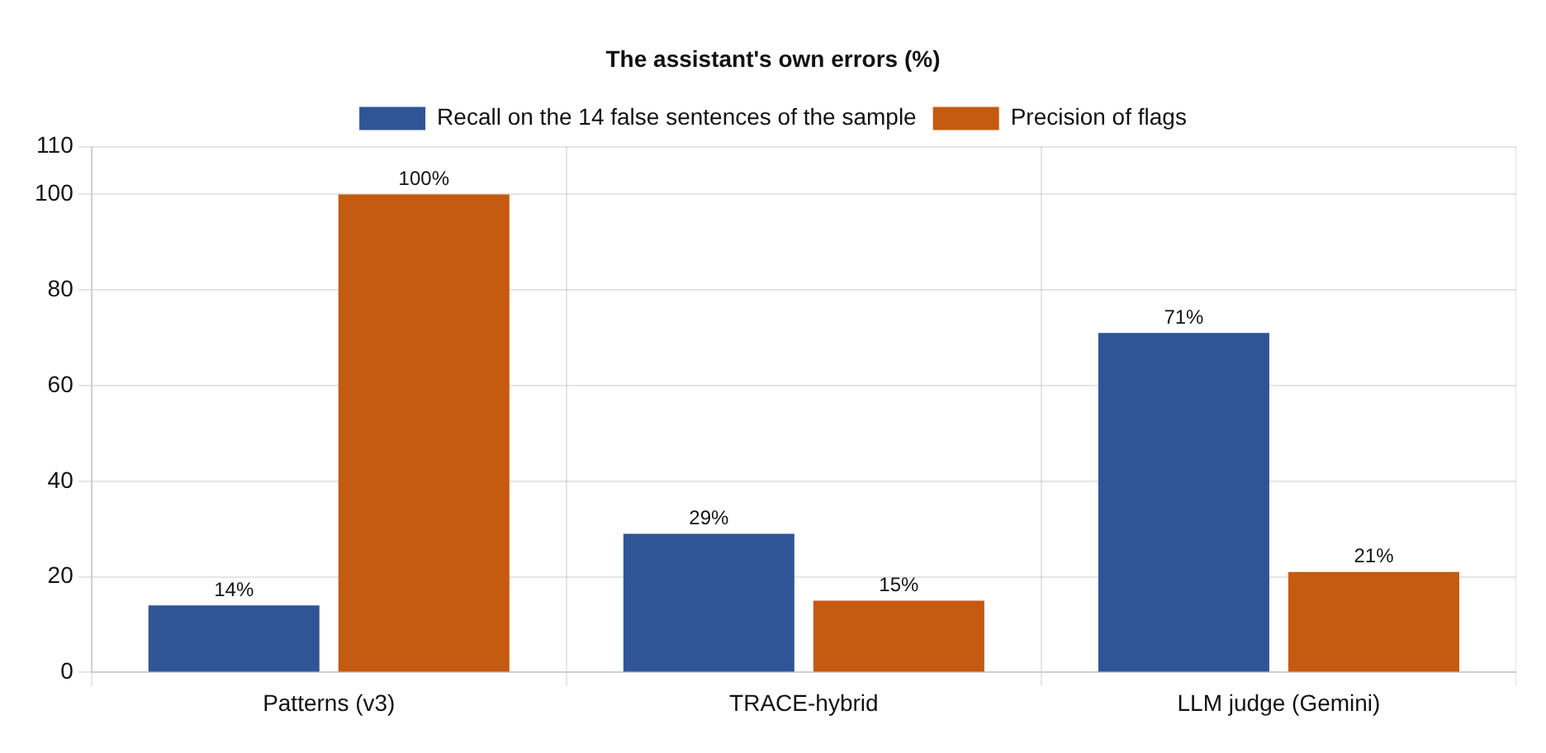
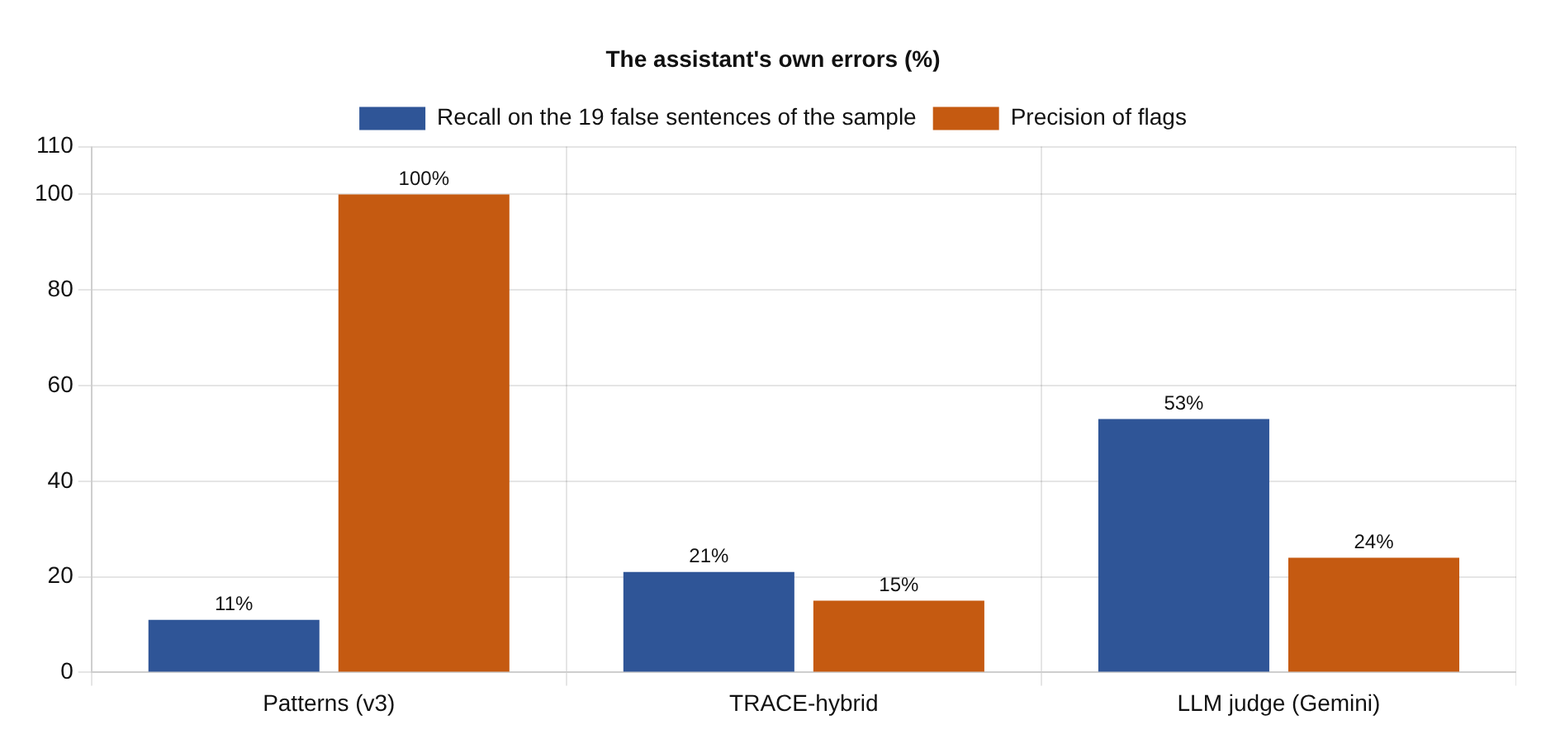
Journal and report: natural-error results with the corrected labels (19 false sentences, TRACE 4 of 19, judge 10 of 19), with the correction disclosed

diff --git a/Research/report/src/ch6.js b/Research/report/src/ch6.js
@@ -147,16 +147,17 @@ module.exports = [
   { table: { caption: 'Random sample of 300 sentences from the stored answers', widths: [2.6, 1, 0.8, 0.8, 1, 0.9, 1.9],
     head: ['Answers', 'Sentences', 'True', 'False', 'No claim', 'Unsure', 'False among checkable'],
     rows: [
-      ['All', '300', '247', '14', '34', '5', '14/261 (5.4%)'],
-      ['With knowledge base', '222', '204', '3', '13', '2', '3/207 (1.4%)'],
-      ['Without knowledge base', '78', '43', '11', '21', '3', '11/54 (20.4%)'],
-      ['Gemini runs', '245', '204', '14', '23', '4', '14/218 (6.4%)'],
+      ['All', '300', '242', '19', '34', '5', '19/261 (7.3%)'],
+      ['With knowledge base', '222', '202', '5', '13', '2', '5/207 (2.4%)'],
+      ['Without knowledge base', '78', '40', '14', '21', '3', '14/54 (25.9%)'],
+      ['Gemini runs', '245', '199', '19', '23', '4', '19/218 (8.7%)'],
       ['Gemma run', '55', '43', '0', '11', '1', '0/43 (0%)'],
     ] } },
-  { p: 'Of the checkable sentences, 5.4% were false. The knowledge base made the largest difference: 1.4% of checkable sentences were false with it, against 20.4% without it. All eleven false sentences without the knowledge base state a company rule or definition wrongly (for example, the threshold for rising demand as 20% instead of 15%).' },
-  { p: 'To measure detection, each method was run on the 211 answers that contain a sampled sentence (all 590 would have exceeded the free API quota), and every flagged sentence was labelled too, 435 sentences in all.' },
+  { p: 'Of the checkable sentences, 7.3% were false. The knowledge base made the largest difference: 2.4% of checkable sentences were false with it, against 25.9% without it. Eleven of the fourteen false sentences without the knowledge base state a company rule or definition wrongly (for example, the threshold for rising demand as 20% instead of 15%). Five sentences, two with the knowledge base and three without, describe overdue units as part of the units on order ("720 overdue inbound units out of 1,830 inbound units"), although the system counts them separately.' },
+  { p: '**A correction to the labels.** These five sentences were first labelled true. While labelling the sentences MiniCheck flagged, after all methods had run, the same pattern turned up labelled false elsewhere, so every label was checked against one rule taken from the code (units on order are ordered, not delivered and not overdue). Nine labels changed from true to false, five of them in the sample, and none the other way; the changes are logged in `label-corrections.jsonl`. With the original labels the sample had 14 false sentences (5.4%; 1.4% with and 20.4% without the knowledge base), and TRACE found 4 of them and the judge 10. Because the correction was prompted by MiniCheck\'s flags, it favours MiniCheck, so both versions are reported.' },
+  { p: 'To measure detection, each method was run on the 211 answers that contain a sampled sentence (all 590 would have exceeded the free API quota), and every flagged sentence was labelled too, 649 sentences in all.' },
   { fig: { file: 'chart-natural.png', caption: 'Natural errors: recall on the sample and precision of flags', width: 5.6 } },
-  { p: 'Natural errors turned out to be a different problem. TRACE-hybrid found 4 of the 14 false sentences (29%), against 10 (71%) for the LLM judge. Of TRACE\'s ten misses, eight are definitions its language cannot express (what a sales-order status means, whether reorder level and reorder point are the same figure, whether unserved demand is back-ordered, whether the data are simulated), and two state a rule TRACE can check that the extractor did not record. The judge, given the knowledge base\'s passages as evidence, could compare such definitions with them directly. Precision was low for both: 12 of 78 TRACE flags (15%) and 24 of 117 judge flags (21%) were real errors. 50 of TRACE\'s 66 wrong flags came from just two answers that listed 26 weekly forecasts, each of which the extractor recorded as the *average* forecast; without those answers TRACE\'s precision is 43%.' },
+  { p: 'Natural errors turned out to be a different problem. TRACE-hybrid found 4 of the 19 false sentences (21%), against 10 (53%) for the LLM judge. Of TRACE\'s fifteen misses, five are the overdue-unit sentences, where each figure is true and the language cannot say that one amount is part of another (the judge missed all five too); eight are definitions its language cannot express (what a sales-order status means, whether reorder level and reorder point are the same figure, whether unserved demand is back-ordered, whether the data are simulated), and two state a rule TRACE can check that the extractor did not record. The judge, given the knowledge base\'s passages as evidence, could compare such definitions with them directly. Precision was low for both: 12 of 78 TRACE flags (15%) and 28 of 117 judge flags (24%) were real errors. 50 of TRACE\'s 66 wrong flags came from just two answers that listed 26 weekly forecasts, each of which the extractor recorded as the *average* forecast; without those answers TRACE\'s precision is 43%.' },
 
   { h2: '6.5 Evaluation of Effect and Cost (RQ3)' },
   { h3: '6.5.1 False-premise questions' },
@@ -198,11 +199,11 @@ module.exports = [
   { p: 'Deterministic verification of the model\'s assertions took a median of 0.6 s per answer (90th percentile 1.8 s), and rule-only checking 1.1 s. Extraction is one model call per answer: on the 252 held-out texts it used a median of 6,028 input and 316 output tokens, took a median of 2.0 s (90th percentile 4.1 s) and returned 8.9 assertions per text, of which 4 of 2,241 failed schema validation. The LLM judge took a median of 1.4 s per text. In the harm check, answers with TRACE took a median of 15.9 s against about 3 s with the pattern verifier, because extraction and correction rounds add model calls on a free, often overloaded API.' },
 
   { h2: '6.6 Discussion' },
-  { p: '**Grounding prevents most errors.** The knowledge base reduced false statements from 20.4% to 1.4% of checkable sentences and raised paired-question accuracy from 8–9 to 32 of 32. The errors that remain with grounding are mostly figures, which is exactly where TRACE is strongest.' },
-  { p: '**Verification is strong where the language reaches.** On model-written errors, TRACE matched an LLM judge in detection with a quarter of its false alarms, and every error was explainable. On the assistant\'s own errors, which were mostly wrong definitions, it found only 4 of 14, because definitions are outside the language.' },
+  { p: '**Grounding prevents most errors.** The knowledge base reduced false statements from 25.9% to 2.4% of checkable sentences and raised paired-question accuracy from 8–9 to 32 of 32. Three of the five errors that remain with grounding are figures, which is where TRACE is strongest.' },
+  { p: '**Verification is strong where the language reaches.** On model-written errors, TRACE matched an LLM judge in detection with a quarter of its false alarms, and every error was explainable. On the assistant\'s own errors, which were mostly wrong definitions or wrong relations between correct figures, it found only 4 of 19, because both are outside the language.' },
   { p: '**The extractor is the weak point, and it is visible.** No miss and no false alarm in any experiment came from a verification function; all came from extraction or coverage. This is the benefit of keeping the decision of truth out of the model: each failure points to a specific fix.' },
   { p: '**False alarms have a cost.** The harm check showed that a false alarm can lead the model to "correct" a true statement into a false one. A deployment should therefore prefer showing a warning to the user over automatic correction when the extractor\'s confidence is low.' },
 
   { h2: '6.7 Summary' },
-  { p: 'All 269 automated tests passed, and the controls on permissions, verification and approval behave as specified. Grounding was the largest single factor in correctness (RQ1). TRACE detected 69% of held-out errors with 4% false alarms, far above the pattern-based checker and with a quarter of the LLM judge\'s false alarms, but it found only 4 of 14 natural errors because most were definitions outside its language (RQ2). Verification did not measurably change false-premise rebuttals, can harm correct answers through false alarms, and adds seconds and one model call per answer (RQ3).' },
+  { p: 'All 269 automated tests passed, and the controls on permissions, verification and approval behave as specified. Grounding was the largest single factor in correctness (RQ1). TRACE detected 69% of held-out errors with 4% false alarms, far above the pattern-based checker and with a quarter of the LLM judge\'s false alarms, but it found only 4 of 19 natural errors because most were definitions or relations between figures outside its language (RQ2). Verification did not measurably change false-premise rebuttals, can harm correct answers through false alarms, and adds seconds and one model call per answer (RQ3).' },
 ];

diff --git a/Research/report/src/ch7.js b/Research/report/src/ch7.js
@@ -10,7 +10,7 @@ module.exports = [
   { p: 'IntelliERP shows that an LLM assistant can be placed inside an ERP system without trusting the model with the facts. The work matters in four ways.' },
   { bullets: [
     '**A complete, working system.** Unlike most AI-ERP research, which proposes frameworks without building or testing them [@hurbean2026erp], IntelliERP is a full ERP system with role-based access control, deterministic analytics, an AI assistant, proactive insights and controlled AI actions, running on a realistic dataset.',
-    '**Evidence that grounding prevents most errors.** With the knowledge base, 1.4% of checkable statements were false; without it, 20.4% were. Paired questions rose from 8–9 to 32 of 32. For a business, this means the company\'s own rules must be given to the model, not left for it to guess.',
+    '**Evidence that grounding prevents most errors.** With the knowledge base, 2.4% of checkable statements were false; without it, 25.9% were. Paired questions rose from 8–9 to 32 of 32. For a business, this means the company\'s own rules must be given to the model, not left for it to guess.',
     '**A verifier whose decisions can be explained.** TRACE moves the decision of truth from the model to code. On held-out errors it detected as many as an LLM judge (no significant difference) with a quarter of the false alarms, and every miss and false alarm could be traced to its cause. An auditor can therefore see *why* a statement was accepted or flagged.',
     '**Honest measurement of the limits.** The project measured not only where verification works but where it does not: natural errors that are definitions, false alarms that can make a correct answer wrong, and run-to-run variation of the extraction step. These results are useful to anyone designing verification for business AI.',
   ] },
@@ -21,9 +21,9 @@ module.exports = [
     '**No user study.** No user acceptance test was carried out, so the usefulness of the assistant to real managers, and whether the check results shown under each answer reduce over-reliance, were not measured.',
     '**One dataset, simulated supply.** All experiments use one company\'s data. The sales are real, but purchase orders, deliveries and stock levels were simulated from them.',
     '**Free API only.** Only free-tier models were used. Daily limits and overload errors limited the size of the experiments (for example, 211 answers in the natural-error detection study instead of all 590) and made latency figures noisy.',
-    '**Limited language.** TRACE can only check what its assertion language can express. Definitions, reasons and statements about what the system can do are outside it, which is why it found only 4 of 14 natural errors.',
+    '**Limited language.** TRACE can only check what its assertion language can express. Definitions, reasons and statements about what the system can do are outside it, and so are relations between figures, which is why it found only 4 of 19 natural errors.',
     '**Extraction varies.** The extraction step is an LLM call. Given an extraction, verdicts are fully reproducible, but two extractions of the same text agreed on the flag decision in 47 of 50 cases and on the full assertion list in only 6 of 50.',
-    '**Single annotator.** The natural-error labels were made by one annotator, a language model that is not one of the evaluated models. Each label records its evidence so it can be checked, but no agreement between annotators was measured.',
+    '**Single annotator.** The natural-error labels were made by one annotator, a language model that is not one of the evaluated models. Each label records its evidence so it can be checked, but no agreement between annotators was measured, and nine labels had to be corrected after a consistency check.',
     '**Model-written test errors.** The held-out errors were written by language models and may be easier or harder to detect than errors that occur naturally, as the natural-error results suggest.',
   ] },
 
@@ -43,10 +43,10 @@ module.exports = [
     rows: [
       ['RQ1', 'Build a complete ERP system with role-based access control on a realistic dataset', 'Achieved: eight modules, four roles, Wide World Importers data; 269 automated tests pass (Chapters 4–6)'],
       ['RQ1', 'Design a grounded assistant: rules decide, the LLM explains through permission-checked tools', 'Achieved: 15 tools, knowledge base generated partly from code; 84, 86 and 86 of 86 questions passed; Gemma 86 of 86'],
-      ['RQ1', 'Measure the effect of grounding', 'Achieved: 32 of 32 paired questions with grounding against 8–9 without (p < 0.0001); false statements 1.4% against 20.4%'],
+      ['RQ1', 'Measure the effect of grounding', 'Achieved: 32 of 32 paired questions with grounding against 8–9 without (p < 0.0001); false statements 2.4% against 25.9%'],
       ['RQ2', 'Design a typed assertion language for enterprise statements', 'Achieved: 64 attributes, 24 rule keys and 21 actions in three families'],
       ['RQ2', 'Implement TRACE with deterministic verification', 'Achieved: frozen before the held-out test; no miss or false alarm caused by a verification function'],
-      ['RQ2', 'Evaluate TRACE against baselines on held-out and natural errors', 'Achieved for patterns and the Gemini judge: 70 of 102 detected with 4% false alarms, against 15 (patterns) and 80 with 17% false alarms (judge); natural errors 4 of 14. MiniCheck and Gemma-judge results pending'],
+      ['RQ2', 'Evaluate TRACE against baselines on held-out and natural errors', 'Achieved: 70 of 102 detected with 4% false alarms, against 15 (patterns), 80 with 17% false alarms (Gemini judge) and 38 with 21% (MiniCheck); natural errors 4 of 19. Gemma-judge results pending'],
       ['RQ3', 'Measure the effect on false premises and on ordinary answers', 'Achieved: no significant change in rebuttals (89–93%); harm check showed false alarms can make correct answers wrong'],
       ['RQ3', 'Measure time, tokens and repeatability', 'Achieved: one extraction call per answer (median 6,028 input tokens, 2.0 s); verdicts reproducible given an extraction; end-to-end flag decision 47 of 50'],
       ['RQ3', 'Keep the AI\'s only action behind validation, permissions, separation of duties and audit', 'Achieved: AI can only draft; tested by TC-03, TC-09 and TC-10'],

diff --git a/Research/report/src/front.js b/Research/report/src/front.js
@@ -9,7 +9,7 @@ module.exports = [
   { front: 'Abstract' },
   { p: 'Large language models (LLMs) are being added to enterprise resource planning (ERP) systems as assistants that answer questions, explain risks and recommend actions. Their answers sound confident, but they can be wrong: an assistant can misstate a stock level, invent a company threshold or describe a permission the user does not have. People act on these statements. This project addresses one problem: **how to stop an ERP assistant from showing users false statements about the business, using the system\'s own data as evidence.**' },
   { p: 'IntelliERP is a full-stack ERP decision-support system (React, FastAPI, PostgreSQL) for sales, inventory and procurement, loaded with Microsoft\'s Wide World Importers data (227 products, 72,696 sales lines). Its design prevents false statements in two ways. First, deterministic analytics decide what is at risk, and the LLM takes every figure from 15 permission-checked tools and every company rule from a 41-passage knowledge base generated partly from the code. Second, every answer is verified before the user sees it: every figure is traced to a source, and every factual statement is checked by **TRACE** (Typed Run-time Assertion Checking for Enterprise assistants), which turns each statement into a typed assertion and decides its truth with the system\'s own tested code, not with another model. The AI can create nothing but a draft purchase order that a second person must approve.' },
-  { p: 'The system was evaluated on 86 questions in three repeated runs with keyword- and number-based scoring and no model as a judge: it passed 84, 86 and 86 of 86, and grounding raised the paired questions answered correctly from 8–9 to 32 of 32 (p < 0.0001). On a held-out test generated after TRACE was frozen, TRACE detected 69% of 102 model-written errors with false alarms on 4% of paraphrases, against 15% for the earlier pattern-based checker; an LLM judge detected 78% but raised false alarms on 17%. On the assistant\'s own answers, TRACE found 4 of 14 real errors against the judge\'s 10, because most real errors were wrong definitions that TRACE cannot yet express. A harm check showed that a false alarm can make a correct answer wrong. The results show where deterministic verification is strong (figures, derived results, rule values) and what it still needs: a more faithful extractor and coverage of definitions.' },
+  { p: 'The system was evaluated on 86 questions in three repeated runs with keyword- and number-based scoring and no model as a judge: it passed 84, 86 and 86 of 86, and grounding raised the paired questions answered correctly from 8–9 to 32 of 32 (p < 0.0001). On a held-out test generated after TRACE was frozen, TRACE detected 69% of 102 model-written errors with false alarms on 4% of paraphrases, against 15% for the earlier pattern-based checker; an LLM judge detected 78% but raised false alarms on 17%. On the assistant\'s own answers, TRACE found 4 of 19 real errors against the judge\'s 10, because most real errors were wrong definitions, or wrong relations between correct figures, that TRACE cannot yet express. A harm check showed that a false alarm can make a correct answer wrong. The results show where deterministic verification is strong (figures, derived results, rule values) and what it still needs: a more faithful extractor and coverage of definitions.' },
   { p: '**Keywords:** enterprise resource planning, large language models, hallucination, run-time verification, grounding, decision support' },
   { toc: true },
 ];

diff --git a/Research/report/figures/chart-natural.html b/Research/report/figures/chart-natural.html
@@ -6,7 +6,7 @@
 <script src="../node_modules/mermaid/dist/mermaid.min.js"></script>
 <script src="../node_modules/chart.js/dist/chart.umd.js"></script></head>
 <body><div id="fig"><div style="width:900px;height:420px"><canvas id="c"></canvas></div></div><script>Chart.defaults.font.family='Arial'; Chart.defaults.font.size=14; Chart.defaults.color='#111';
-     const cfg={"type":"bar","data":{"labels":["Patterns (v3)","TRACE-hybrid","LLM judge (Gemini)"],"datasets":[{"label":"Recall on the 14 false sentences of the sample","data":[14,29,71],"backgroundColor":"#2f5597"},{"label":"Precision of flags","data":[100,15,21],"backgroundColor":"#c55a11"}]},"options":{"plugins":{"title":{"display":true,"text":"The assistant's own errors (%)"}},"scales":{"y":{"min":0,"max":110}}}};
+     const cfg={"type":"bar","data":{"labels":["Patterns (v3)","TRACE-hybrid","LLM judge (Gemini)"],"datasets":[{"label":"Recall on the 19 false sentences of the sample","data":[11,21,53],"backgroundColor":"#2f5597"},{"label":"Precision of flags","data":[100,15,24],"backgroundColor":"#c55a11"}]},"options":{"plugins":{"title":{"display":true,"text":"The assistant's own errors (%)"}},"scales":{"y":{"min":0,"max":110}}}};
      cfg.options=Object.assign({animation:false,responsive:true,maintainAspectRatio:false},cfg.options||{});
      cfg.plugins=[{id:'labels',afterDatasetsDraw(chart){const {ctx}=chart;ctx.save();ctx.font='12px Arial';ctx.fillStyle='#111';
        chart.data.datasets.forEach((ds,i)=>{chart.getDatasetMeta(i).data.forEach((bar,j)=>{const v=ds.data[j];if(v==null)return;

diff --git a/Research/report/make-figures.js b/Research/report/make-figures.js
@@ -335,8 +335,8 @@ chartPage('chart-errortype', { type: 'bar', data: { labels: ['Derived (15)', 'Ex
 
 // LLM/evaluation/results/trace/natural/report.md
 chartPage('chart-natural', { type: 'bar', data: { labels: ['Patterns (v3)', 'TRACE-hybrid', 'LLM judge (Gemini)'],
-  datasets: [{ label: 'Recall on the 14 false sentences of the sample', data: [14, 29, 71], backgroundColor: BLUE },
-             { label: 'Precision of flags', data: [100, 15, 21], backgroundColor: ORANGE }] },
+  datasets: [{ label: 'Recall on the 19 false sentences of the sample', data: [11, 21, 53], backgroundColor: BLUE },
+             { label: 'Precision of flags', data: [100, 15, 24], backgroundColor: ORANGE }] },
   options: { plugins: { title: { display: true, text: "The assistant's own errors (%)" } }, scales: { y: { min: 0, max: 110 } } } }, 900, 420);
 
 // LLM/evaluation/results/fpq-report.md (both models complete)

diff --git a/Research/journal/trace.tex b/Research/journal/trace.tex
@@ -68,10 +68,10 @@ detected 78\%, not significantly more, but raised false alarms on 17\% of paraph
 verdicts when asked twice; given an extraction, TRACE's verdicts were identical across runs, but two
 extractions of the same text led to the same flag decision for only 47 of 50 texts. \ABSMINI Every miss and false alarm
 was traced by hand: none came from a verification function; they came from the extractor and from
-statements outside the language. On the assistant's own answers (a random sample of 300 sentences, 5.4\%
-of checkable sentences false), TRACE found only 4 of 14 errors against the judge's 10, because most natural
-errors misstate definitions the language does not cover; with the knowledge base the natural error rate
-fell from 20\% to 1.4\%. On 44 false-premise questions, verification did not measurably change how often
+statements outside the language. On the assistant's own answers (a random sample of 300 sentences, 7.3\%
+of checkable sentences false), TRACE found only 4 of 19 errors against the judge's 10, because most natural
+errors misstate definitions, or relations between figures, that the language does not cover; with the
+knowledge base the natural error rate fell from 26\% to 2.4\%. On 44 false-premise questions, verification did not measurably change how often
 answers rebut the premise; on the 86 ordinary evaluation questions it did not change the pass rate, but
 two of its false alarms led the model to make a correct answer wrong. The results show where deterministic verification is strong (figures, derived
 results, rule values) and what it still needs (a more faithful extractor and coverage of definitions).
@@ -571,15 +571,25 @@ Defect in a verification function & 0 & --- \\
 
 \subsection{Natural errors}
 Table~\ref{tab:natural} gives the labels of the random sample. Of the 261 sentences with a checkable claim,
-14 (5.4\%; Wilson 95\% interval 3.2--8.8\%) are false. The knowledge base makes the largest difference:
-with it, 3 of 207 checkable sentences are false (1.4\%; 0.5--4.2\%); without it, 11 of 54 (20.4\%;
-11.8--32.9\%). All eleven state a company rule or definition wrongly: the threshold for rising demand (20\%
+19 (7.3\%; Wilson 95\% interval 4.7--11.1\%) are false. The knowledge base makes the largest difference:
+with it, 5 of 207 checkable sentences are false (2.4\%; 1.0--5.5\%); without it, 14 of 54 (25.9\%;
+16.1--38.9\%). Five of the nineteen, two with the knowledge base and three without, describe overdue units
+as part of the units on order (``720 overdue inbound units out of 1,830 inbound units''); in the system the
+two are separate amounts, and the product has 2,550 units ordered and not delivered. Eleven of the fourteen
+without the knowledge base state a company rule or definition wrongly: the threshold for rising demand (20\%
 instead of 15\%), the number of drafts per message (one instead of three), what a sales order status means,
 whether reorder level and reorder point are the same figure, whether unserved demand is back-ordered, which
 purchase order statuses count as incoming stock, whether the data are simulated, and whether a product can
-be at Critical risk while units are on order. The three false sentences with the
+be at Critical risk while units are on order. The other three false sentences with the
 knowledge base are figures: a suggested quantity of 40 units (the rule gives 1,400) and, twice, a stock
-status explained as ``below the reorder level of 92'' for 125 units on hand. Policy statements are exactly
+status explained as ``below the reorder level of 92'' for 125 units on hand.
+
+The five sentences about overdue units were first labelled true. While labelling the sentences MiniCheck
+flagged, after all methods had run, we found the same pattern labelled false elsewhere and checked every
+label against one rule taken from the code (\texttt{inbound\_units}: ordered, not delivered, not overdue):
+nine labels changed from true to false, five of them in the sample, and none in the other direction. The
+correction log is released with the labels; with the original labels the sample has 14 false sentences
+(5.4\%; 1.4\% with and 20.4\% without the knowledge base), TRACE found 4 of them and the judge 10. Policy statements are exactly
 the family that output-checking methods without access to the rules cannot verify.
 
 \begin{table}[t]
@@ -590,20 +600,22 @@ the family that output-checking methods without access to the rules cannot verif
 \toprule
 Answers & Sentences & True & False & No claim & Unsure & False among checkable \\
 \midrule
-All & 300 & 247 & 14 & 34 & 5 & 14/261 (5.4\%) \\
-With knowledge base & 222 & 204 & 3 & 13 & 2 & 3/207 (1.4\%) \\
-Without knowledge base & 78 & 43 & 11 & 21 & 3 & 11/54 (20.4\%) \\
-Gemini runs & 245 & 204 & 14 & 23 & 4 & 14/218 (6.4\%) \\
+All & 300 & 242 & 19 & 34 & 5 & 19/261 (7.3\%) \\
+With knowledge base & 222 & 202 & 5 & 13 & 2 & 5/207 (2.4\%) \\
+Without knowledge base & 78 & 40 & 14 & 21 & 3 & 14/54 (25.9\%) \\
+Gemini runs & 245 & 199 & 19 & 23 & 4 & 19/218 (8.7\%) \\
 Gemma run & 55 & 43 & 0 & 11 & 1 & 0/43 (0\%) \\
 \bottomrule
 \end{tabular}
 \end{table}
 
 \paragraph{Detection of natural errors.} Table~\ref{tab:naturalmethods} gives each method's recall on the
-14 false sentences of the random sample, and the precision of its flags in the 211 answers. All 435 pooled
+19 false sentences of the random sample, and the precision of its flags in the 211 answers. All 649 pooled
 sentences (the sample and every flagged sentence) were labelled. Natural errors turned out to be a
-different problem from the injected ones. TRACE-hybrid found 4 of the 14 (29\%), against 10 (71\%) for the
-Gemini judge. Of TRACE's ten misses, eight are statements its language cannot express: what a sales order
+different problem from the injected ones. TRACE-hybrid found 4 of the 19 (21\%), against 10 (53\%) for the
+Gemini judge. Of TRACE's fifteen misses, five are the overdue-unit sentences: the extractor recorded both
+figures, each of which is true, and the language has no way to say that one amount is part of another.
+Neither the judge nor TRACE flagged any of the five. Eight more are statements its language cannot express: what a sales order
 status means, whether reorder level and reorder point are the same figure, whether unserved demand is
 back-ordered in a projection, whether the data are simulated, which statuses count as incoming stock, and
 whether stock on order prevents Critical risk. The other two state the number of drafts per message wrongly,
@@ -612,32 +624,32 @@ passages as evidence and could compare such definitions with them directly. The 
 a figure (a suggested quantity of 40 units for 1,400), a rule threshold (20\% for 15\%) and the two stock
 status explanations described above.
 
-Precision was low for both. Of the 78 sentences TRACE-hybrid flagged, 12 are false (15\%), against 24 of
-117 for the judge (21\%). Every wrong TRACE flag is an extraction error, and one kind dominates: 50 of the 66
+Precision was low for both. Of the 78 sentences TRACE-hybrid flagged, 12 are false (15\%), against 28 of
+117 for the judge (24\%). Every wrong TRACE flag is an extraction error, and one kind dominates: 50 of the 66
 are the weekly figures of two 26-week forecast lists, each of which the extractor recorded as the
 \emph{average} weekly forecast. The others are of the kinds seen on the held-out test: a supplier's stated
 reliability recorded as its observed on-time rate, the next delivery date recorded as the stockout date,
 ``demand is up 23\%'' extracted as 237, and a statement about one user's permission recorded as one about
 the role. Leaving out the three forecast-list answers, which hurt both methods (the judge also flagged 27
-correct weekly figures in one of them), precision is 12 of 28 for TRACE (43\%) and 24 of 89 for the judge
-(27\%). Flags were spread very differently. TRACE flagged sentences in 25 of the 211 answers, the judge in
+correct weekly figures in one of them), precision is 12 of 28 for TRACE (43\%) and 28 of 89 for the judge
+(31\%). Flags were spread very differently. TRACE flagged sentences in 25 of the 211 answers, the judge in
 72. On the Gemma run, which TRACE never saw during development, the sample contains no false sentence; both
 methods' flags there (6 for TRACE, 12 for the judge) were all wrong.
 
 \begin{table}[t]
 \centering\small
-\caption{Natural errors: recall on the 14 false sentences of the random sample, and precision of the
+\caption{Natural errors: recall on the 19 false sentences of the random sample, and precision of the
 flags in the 211 answers that hold a sampled sentence (Wilson 95\% intervals).}
 \label{tab:naturalmethods}
 \begin{tabular}{@{}lrr@{}}
 \toprule
 Method & Recall (sample) & Precision of flags \\
 \midrule
-Patterns (first version) & 2/14 (14\%; 4--40) & 2/2 \\
-TRACE-rule & 2/14 (14\%; 4--40) & 2/2 \\
-TRACE-model & 4/14 (29\%; 12--55) & 12/78 (15\%; 9--25) \\
-TRACE-hybrid & 4/14 (29\%; 12--55) & 12/78 (15\%; 9--25) \\
-LLM judge (gemini-3.5-flash-lite) & 10/14 (71\%; 45--88) & 24/117 (21\%; 14--29) \\
+Patterns (first version) & 2/19 (11\%; 3--31) & 2/2 \\
+TRACE-rule & 2/19 (11\%; 3--31) & 2/2 \\
+TRACE-model & 4/19 (21\%; 9--43) & 12/78 (15\%; 9--25) \\
+TRACE-hybrid & 4/19 (21\%; 9--43) & 12/78 (15\%; 9--25) \\
+LLM judge (gemini-3.5-flash-lite) & 10/19 (53\%; 32--73) & 28/117 (24\%; 17--32) \\
 \NATURALBASELINES
 \bottomrule
 \end{tabular}
@@ -748,18 +760,19 @@ appear only as unexplained disagreements.
 
 \paragraph{Injected and natural errors differ.} On model-written injections TRACE matched the LLM judge
 (69\% against 78\% detection, not significantly different) with a quarter of its false alarms. On the
-assistant's own errors it found 4 of 14 against the judge's 10. The reason is the error mix, not the
-verifier. Eleven of the fourteen natural errors were made without the knowledge base. All eleven state a
-company rule or definition wrongly, and eight of them a definition that the language does not cover: what a
-status means, whether two figures are the same, how a projection treats unserved demand. The injected errors
+assistant's own errors it found 4 of 19 against the judge's 10. The reason is the error mix, not the
+verifier. Fourteen of the nineteen natural errors were made without the knowledge base; eleven of them state a
+company rule or definition wrongly, and eight of those a definition that the language does not cover: what a
+status means, whether two figures are the same, how a projection treats unserved demand. Five more relate two
+correct figures wrongly (overdue units as part of the units on order), which no single assertion captures. The injected errors
 were mostly figures, derived results and rule values, which the language was designed for. A deployment would therefore pair TRACE with grounding: with the knowledge base, the
-natural error rate fell from 20\% to 1.4\% of checkable sentences, and the residual errors with it were
-figures, the kind TRACE checks well.
+natural error rate fell from 26\% to 2.4\% of checkable sentences, and three of the five residual errors
+with it were figures, the kind TRACE checks well.
 
 \paragraph{Coverage.} Statements about what the system can do (``the system does not track customer
 returns''), definitions of terms and statuses, assumptions of the simulation, and reasons and causal
-explanations are outside the language. They account for five of the 32 held-out misses and eight of the
-ten natural-error misses. Each could be added as a typed policy attribute with an executable source (the
+explanations are outside the language, and so are relations between two figures (one amount being part of
+another). They account for five of the 32 held-out misses and thirteen of the fifteen natural-error misses. Each could be added as a typed policy attribute with an executable source (the
 status lifecycle and the projection's assumptions are already code), but every addition must be built and
 tested by hand, which is the price of deterministic verdicts.
 
@@ -779,8 +792,10 @@ are real); the language is tied to the schema, not to the data. Paraphrase false
 statement, and a paraphrase that splits a sentence can change counts for any method. The author wrote the
 questions. The natural-error sentences were labelled by a single annotator, a language model (Claude Opus 5.5)
 that is not one of the evaluated models or methods. It labelled the random sample before any method had been
-run on it. It labelled the 135 flagged sentences outside the sample afterwards, without being told which
-method had flagged them, and kept the conventions of the sample labels. Inter-annotator agreement has
+run on it. It labelled the 349 flagged sentences outside the sample afterwards, without being told which
+method had flagged them, and kept the conventions of the sample labels. Nine labels, five of them in the
+sample, were corrected afterwards by one rule taken from the code; the correction was prompted by MiniCheck's
+flags and favours MiniCheck's recall, so both versions are reported. Inter-annotator agreement has
 therefore not been measured, and every label is released with the words
 it marks as wrong and the evidence it rests on, so that each can be checked. Both evaluated models come from
 one provider family's API, one of them open-weight. The free API limited the study in three ways: the
@@ -799,8 +814,8 @@ had never seen, it kept the same detection rate (69\%) with fewer false alarms (
 pattern-based verifier missed and none that it found, and matched an LLM judge given the same evidence
 while raising a quarter of the judge's false alarms. Given an extraction, its verdicts were identical when
 repeated, and every miss and false alarm could be traced to a specific extraction or coverage gap; no error
-came from a verification function. On the assistant's own errors, however, it found only 4 of 14, because
-most natural errors misstate definitions that its language does not cover, and on false-premise questions
+came from a verification function. On the assistant's own errors, however, it found only 4 of 19, because
+most natural errors misstate definitions, or relations between figures, that its language does not cover, and on false-premise questions
 it did not measurably change how often answers rebut the premise. Its false alarms also have a cost: on
 ordinary questions, two of them led the model to correct a true answer into a false one. The results locate the remaining work
 precisely: a more faithful extractor, and a language that also covers the definitions and assumptions of
